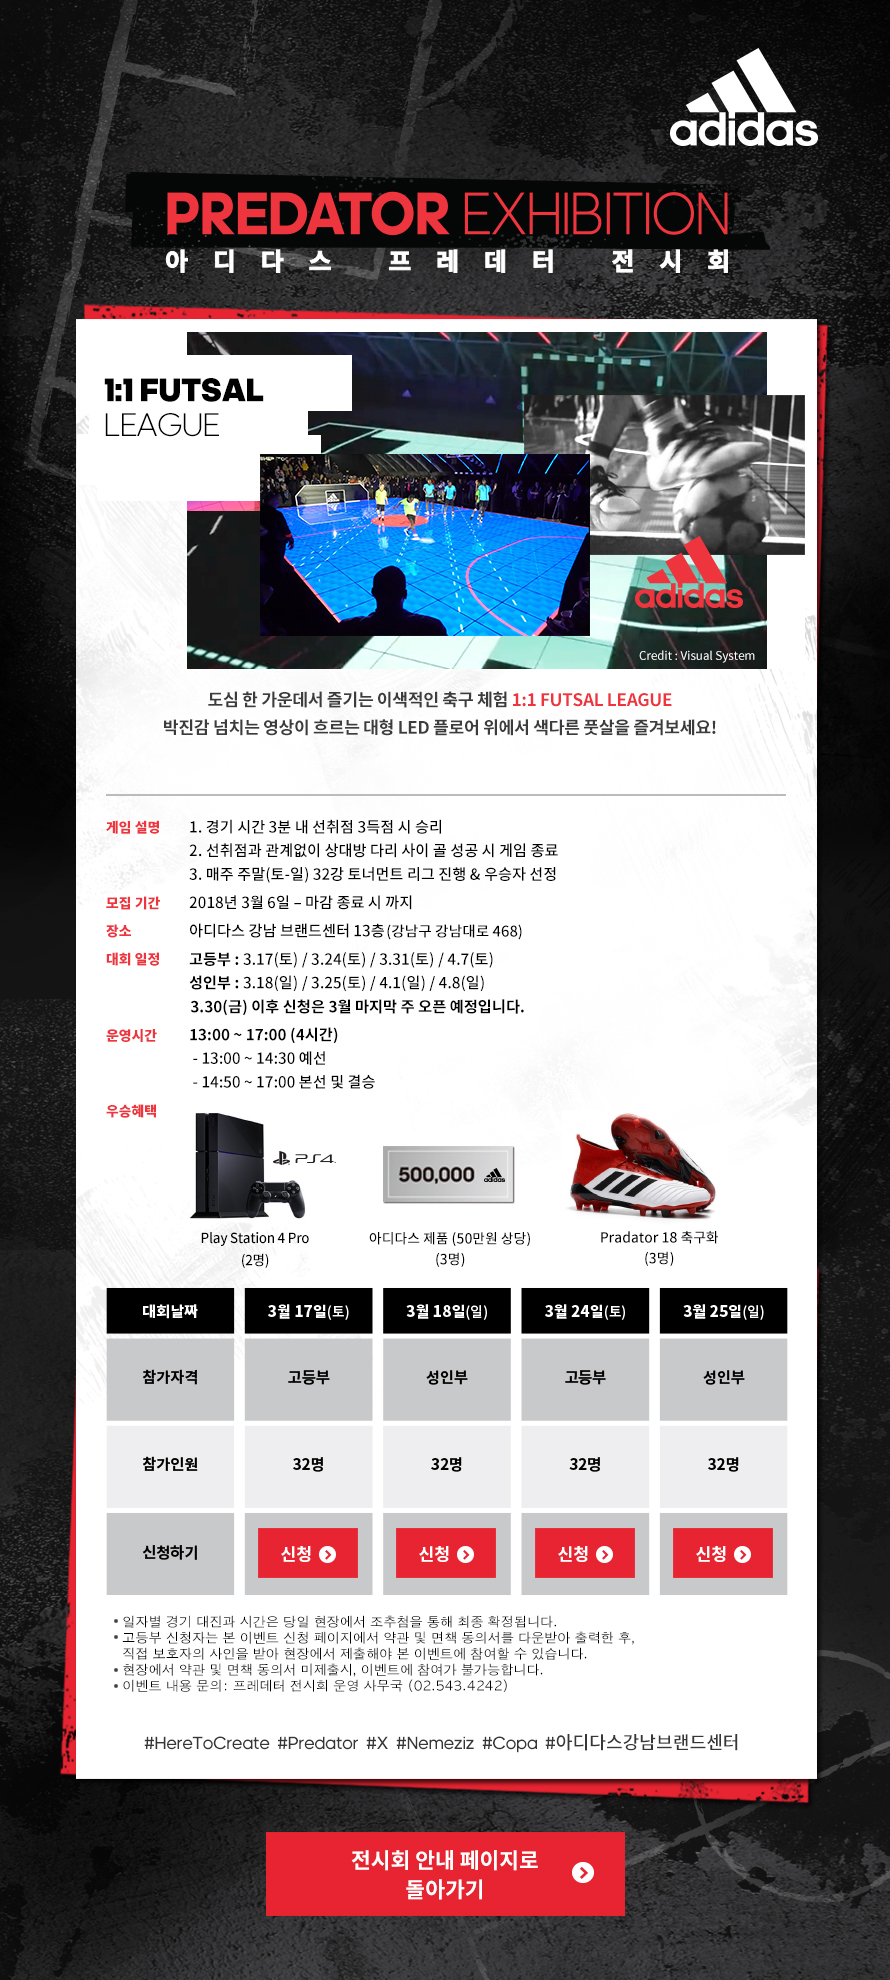
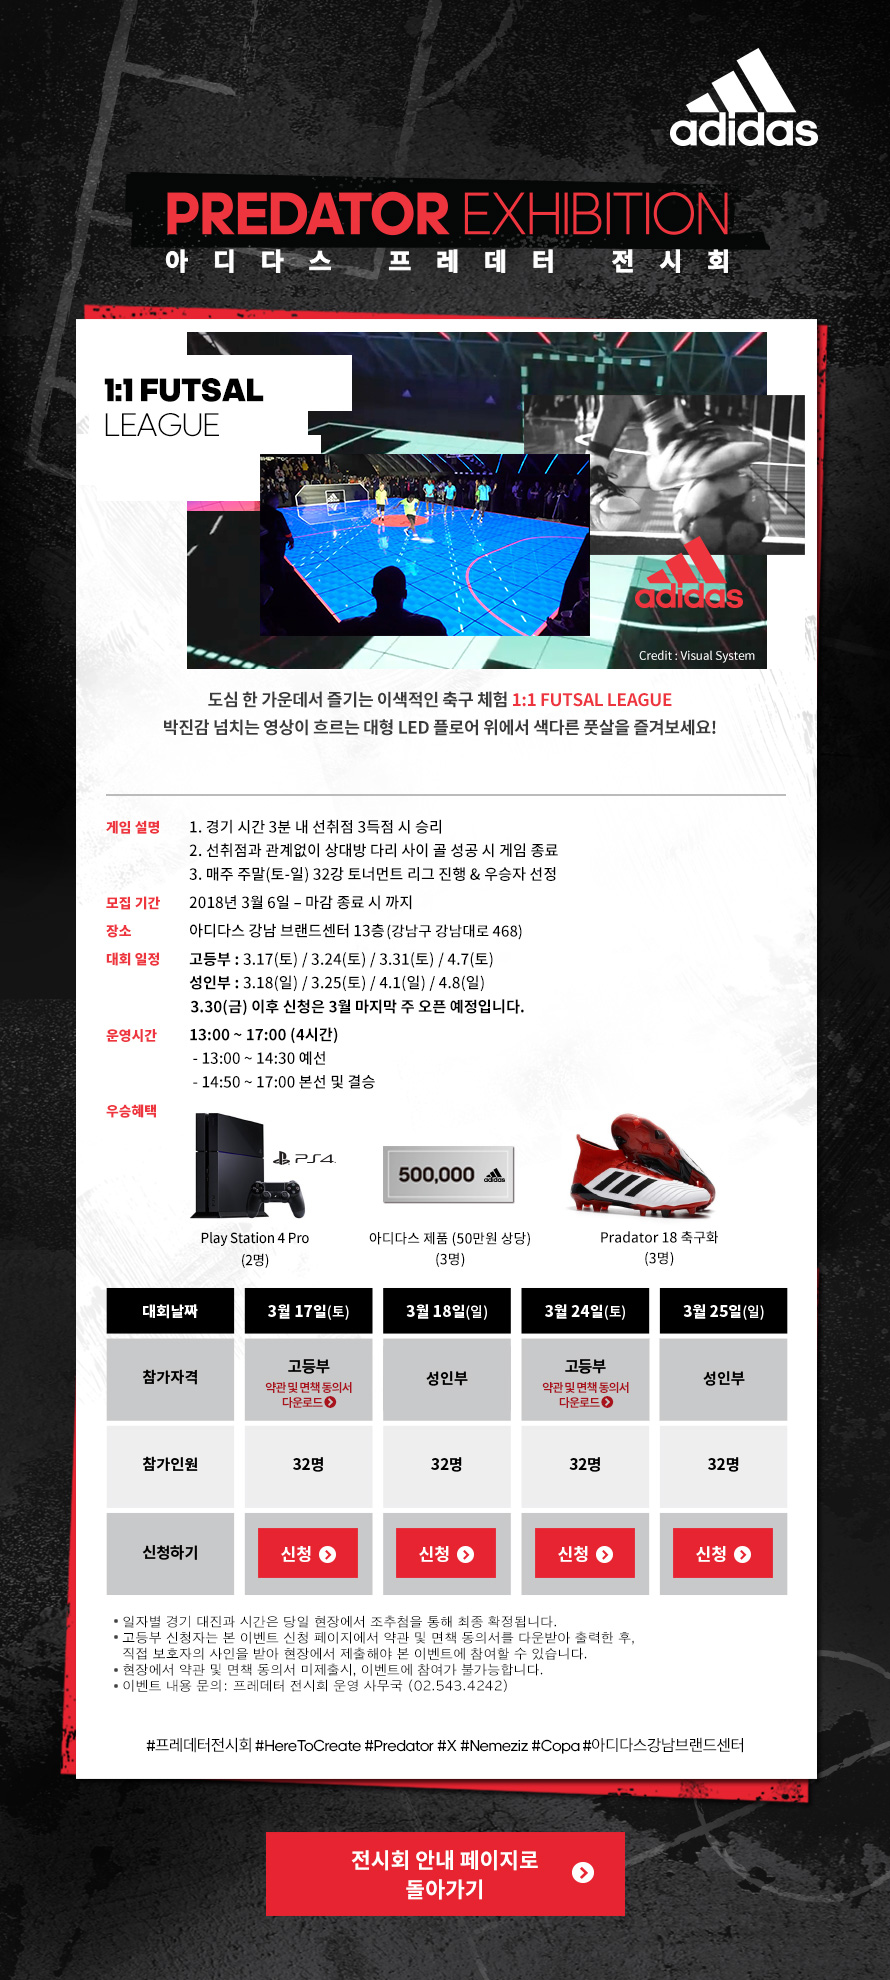
프레데터 전시회 수정

diff --git a/app/html/adidas/campaign/4206/index.html b/app/html/adidas/campaign/4206/index.html
@@ -1296,11 +1296,14 @@
 
 							<div class="club_event_body">
 
-                                <!-- 180305 -->
+                                <!-- 180307 -->
                                 <div style="position:relative">
 									<div class="inn">
 										<img src="http://image.adidas.co.kr/upload/fckeditor/temp/image/adi_camp_180305_3.jpg" alt="" usemap="#map1">
 										<map name="map1" id="map1">
+                                            <area shape="rect" coords="262,1379,356,1412" href="http://shop.adidas.co.kr/upload/campaign/adidas/4185/futsal_league_terms.docx" alt="약관 및 면책 동의서 다운로드">
+                                            <area shape="rect" coords="539,1379,633,1412" href="http://shop.adidas.co.kr/upload/campaign/adidas/4185/futsal_league_terms.docx" alt="약관 및 면책 동의서 다운로드">
+
 											<area shape="rect" coords="258,1526,359,1579" href="#" alt="신청">
                                             <area shape="rect" coords="396,1526,497,1579" href="#" alt="신청">
                                             <area shape="rect" coords="535,1526,636,1579" href="#" alt="신청">
@@ -1311,7 +1314,7 @@
 										</map>
 									</div>
 								</div>
-								<!-- 180305 끝 -->
+								<!-- 180307 끝 -->
 
 							</div>
 
